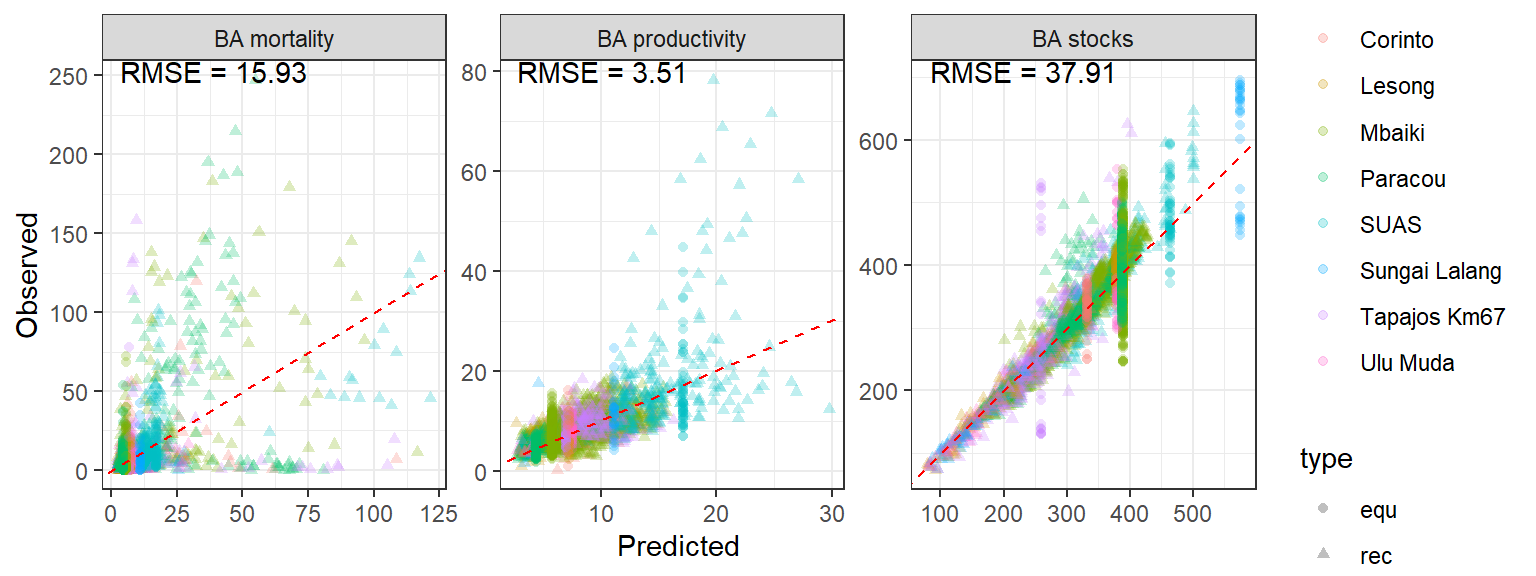
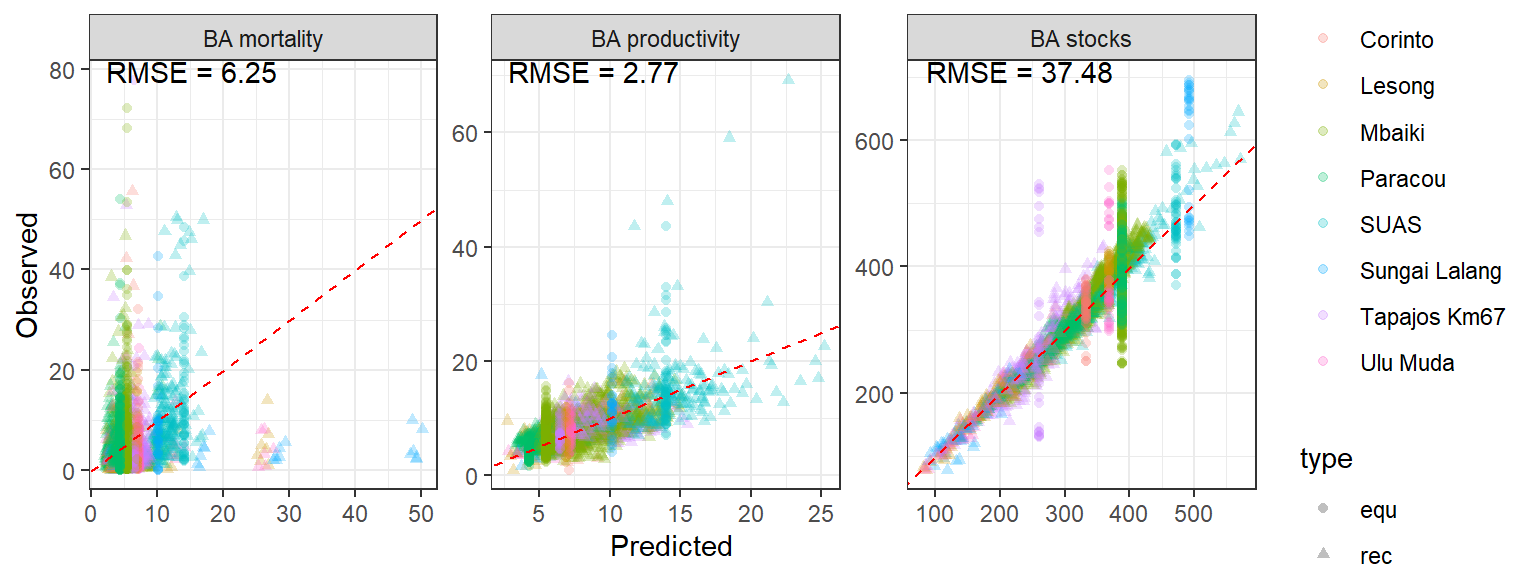
add theta in hyperdistribution of y0 and remove problematic first years (especially for productivity in SUAS)

diff --git a/docs/23_calibrate_flux_model.html b/docs/23_calibrate_flux_model.html
@@ -309,7 +309,11 @@ pre > code.sourceCode > span > a:first-child::before { text-decoration: underlin
 <span id="cb1-17"><a href="#cb1-17" aria-hidden="true" tabindex="-1"></a>  <span class="fu">mutate</span>(<span class="at">Year_of_harvest =</span> <span class="fu">ifelse</span>(Site <span class="sc">==</span> <span class="st">"Mbaiki"</span> <span class="sc">&amp;</span> Treatment <span class="sc">==</span> <span class="st">"Logging"</span>,</span>
 <span id="cb1-18"><a href="#cb1-18" aria-hidden="true" tabindex="-1"></a>    <span class="dv">1985</span>, Year_of_harvest</span>
 <span id="cb1-19"><a href="#cb1-19" aria-hidden="true" tabindex="-1"></a>  )) <span class="sc">|&gt;</span></span>
-<span id="cb1-20"><a href="#cb1-20" aria-hidden="true" tabindex="-1"></a>  <span class="fu">mutate</span>(<span class="at">trec =</span> Year <span class="sc">-</span> Year_of_harvest)</span></code><button title="Copy to Clipboard" class="code-copy-button"><i class="bi"></i></button></pre></div>
+<span id="cb1-20"><a href="#cb1-20" aria-hidden="true" tabindex="-1"></a>  <span class="fu">mutate</span>(<span class="at">Year_of_harvest =</span> <span class="fu">ifelse</span>(Site <span class="sc">==</span> <span class="st">"Paracou"</span> <span class="sc">&amp;</span> Treatment <span class="sc">==</span> <span class="st">"Logging"</span>,</span>
+<span id="cb1-21"><a href="#cb1-21" aria-hidden="true" tabindex="-1"></a>    <span class="dv">1987</span>, Year_of_harvest</span>
+<span id="cb1-22"><a href="#cb1-22" aria-hidden="true" tabindex="-1"></a>  )) <span class="sc">|&gt;</span> </span>
+<span id="cb1-23"><a href="#cb1-23" aria-hidden="true" tabindex="-1"></a>  <span class="fu">mutate</span>(<span class="at">trec =</span> Year <span class="sc">-</span> Year_of_harvest) <span class="sc">|&gt;</span> </span>
+<span id="cb1-24"><a href="#cb1-24" aria-hidden="true" tabindex="-1"></a>  <span class="fu">filter</span>(<span class="sc">!</span> (Site<span class="sc">==</span><span class="st">"Tapajos Km67"</span> <span class="sc">&amp;</span> Year <span class="sc">&gt;</span> <span class="dv">2014</span>))</span></code><button title="Copy to Clipboard" class="code-copy-button"><i class="bi"></i></button></pre></div>
 </details>
 </div>
 <p>For now, we only calibrate the model with sites that meet all the criteria listed <a href="https://bioforest-project.github.io/demography/21_flux_data.html">here</a>, and that have at least 10 censuses.</p>
@@ -352,7 +356,7 @@ pre > code.sourceCode > span > a:first-child::before { text-decoration: underlin
 <span id="cb3-21"><a href="#cb3-21" aria-hidden="true" tabindex="-1"></a>  <span class="fu">flextable</span>()</span></code><button title="Copy to Clipboard" class="code-copy-button"><i class="bi"></i></button></pre></div>
 </details>
 <div class="cell-output-display">
-<div class="tabwid"><style>.cl-954d77e2{}.cl-952835a4{font-family:'Arial';font-size:11pt;font-weight:normal;font-style:normal;text-decoration:none;color:rgba(0, 0, 0, 1.00);background-color:transparent;}.cl-95387b9e{margin:0;text-align:left;border-bottom: 0 solid rgba(0, 0, 0, 1.00);border-top: 0 solid rgba(0, 0, 0, 1.00);border-left: 0 solid rgba(0, 0, 0, 1.00);border-right: 0 solid rgba(0, 0, 0, 1.00);padding-bottom:5pt;padding-top:5pt;padding-left:5pt;padding-right:5pt;line-height: 1;background-color:transparent;}.cl-95387bbc{margin:0;text-align:right;border-bottom: 0 solid rgba(0, 0, 0, 1.00);border-top: 0 solid rgba(0, 0, 0, 1.00);border-left: 0 solid rgba(0, 0, 0, 1.00);border-right: 0 solid rgba(0, 0, 0, 1.00);padding-bottom:5pt;padding-top:5pt;padding-left:5pt;padding-right:5pt;line-height: 1;background-color:transparent;}.cl-9539361a{width:0.75in;background-color:transparent;vertical-align: middle;border-bottom: 1.5pt solid rgba(102, 102, 102, 1.00);border-top: 1.5pt solid rgba(102, 102, 102, 1.00);border-left: 0 solid rgba(0, 0, 0, 1.00);border-right: 0 solid rgba(0, 0, 0, 1.00);margin-bottom:0;margin-top:0;margin-left:0;margin-right:0;}.cl-95393638{width:0.75in;background-color:transparent;vertical-align: middle;border-bottom: 1.5pt solid rgba(102, 102, 102, 1.00);border-top: 1.5pt solid rgba(102, 102, 102, 1.00);border-left: 0 solid rgba(0, 0, 0, 1.00);border-right: 0 solid rgba(0, 0, 0, 1.00);margin-bottom:0;margin-top:0;margin-left:0;margin-right:0;}.cl-9539364c{width:0.75in;background-color:transparent;vertical-align: middle;border-bottom: 0 solid rgba(0, 0, 0, 1.00);border-top: 0 solid rgba(0, 0, 0, 1.00);border-left: 0 solid rgba(0, 0, 0, 1.00);border-right: 0 solid rgba(0, 0, 0, 1.00);margin-bottom:0;margin-top:0;margin-left:0;margin-right:0;}.cl-9539364d{width:0.75in;background-color:transparent;vertical-align: middle;border-bottom: 0 solid rgba(0, 0, 0, 1.00);border-top: 0 solid rgba(0, 0, 0, 1.00);border-left: 0 solid rgba(0, 0, 0, 1.00);border-right: 0 solid rgba(0, 0, 0, 1.00);margin-bottom:0;margin-top:0;margin-left:0;margin-right:0;}.cl-95393656{width:0.75in;background-color:transparent;vertical-align: middle;border-bottom: 1.5pt solid rgba(102, 102, 102, 1.00);border-top: 0 solid rgba(0, 0, 0, 1.00);border-left: 0 solid rgba(0, 0, 0, 1.00);border-right: 0 solid rgba(0, 0, 0, 1.00);margin-bottom:0;margin-top:0;margin-left:0;margin-right:0;}.cl-95393657{width:0.75in;background-color:transparent;vertical-align: middle;border-bottom: 1.5pt solid rgba(102, 102, 102, 1.00);border-top: 0 solid rgba(0, 0, 0, 1.00);border-left: 0 solid rgba(0, 0, 0, 1.00);border-right: 0 solid rgba(0, 0, 0, 1.00);margin-bottom:0;margin-top:0;margin-left:0;margin-right:0;}</style><table data-quarto-disable-processing="true" class="cl-954d77e2"><thead><tr style="overflow-wrap:break-word;"><th class="cl-9539361a"><p class="cl-95387b9e"><span class="cl-952835a4">parameter</span></p></th><th class="cl-95393638"><p class="cl-95387bbc"><span class="cl-952835a4">min</span></p></th><th class="cl-95393638"><p class="cl-95387bbc"><span class="cl-952835a4">max</span></p></th></tr></thead><tbody><tr style="overflow-wrap:break-word;"><td class="cl-9539364c"><p class="cl-95387b9e"><span class="cl-952835a4">theta</span></p></td><td class="cl-9539364d"><p class="cl-95387bbc"><span class="cl-952835a4">50.000</span></p></td><td class="cl-9539364d"><p class="cl-95387bbc"><span class="cl-952835a4">1,000.0</span></p></td></tr><tr style="overflow-wrap:break-word;"><td class="cl-9539364c"><p class="cl-95387b9e"><span class="cl-952835a4">lambda</span></p></td><td class="cl-9539364d"><p class="cl-95387bbc"><span class="cl-952835a4">0.010</span></p></td><td class="cl-9539364d"><p class="cl-95387bbc"><span class="cl-952835a4">5.0</span></p></td></tr><tr style="overflow-wrap:break-word;"><td class="cl-9539364c"><p class="cl-95387b9e"><span class="cl-952835a4">alpha</span></p></td><td class="cl-9539364d"><p class="cl-95387bbc"><span class="cl-952835a4">0.000</span></p></td><td class="cl-9539364d"><p class="cl-95387bbc"><span class="cl-952835a4">200.0</span></p></td></tr><tr style="overflow-wrap:break-word;"><td class="cl-9539364c"><p class="cl-95387b9e"><span class="cl-952835a4">delta</span></p></td><td class="cl-9539364d"><p class="cl-95387bbc"><span class="cl-952835a4">0.000</span></p></td><td class="cl-9539364d"><p class="cl-95387bbc"><span class="cl-952835a4">20.0</span></p></td></tr><tr style="overflow-wrap:break-word;"><td class="cl-9539364c"><p class="cl-95387b9e"><span class="cl-952835a4">tau</span></p></td><td class="cl-9539364d"><p class="cl-95387bbc"><span class="cl-952835a4">2.000</span></p></td><td class="cl-9539364d"><p class="cl-95387bbc"><span class="cl-952835a4">30.0</span></p></td></tr><tr style="overflow-wrap:break-word;"><td class="cl-9539364c"><p class="cl-95387b9e"><span class="cl-952835a4">omega</span></p></td><td class="cl-9539364d"><p class="cl-95387bbc"><span class="cl-952835a4">0.001</span></p></td><td class="cl-9539364d"><p class="cl-95387bbc"><span class="cl-952835a4">0.5</span></p></td></tr><tr style="overflow-wrap:break-word;"><td class="cl-95393656"><p class="cl-95387b9e"><span class="cl-952835a4">y0</span></p></td><td class="cl-95393657"><p class="cl-95387bbc"><span class="cl-952835a4">10.000</span></p></td><td class="cl-95393657"><p class="cl-95387bbc"><span class="cl-952835a4">1,000.0</span></p></td></tr></tbody></table></div>
+<div class="tabwid"><style>.cl-9e85c874{}.cl-9e67a556{font-family:'Arial';font-size:11pt;font-weight:normal;font-style:normal;text-decoration:none;color:rgba(0, 0, 0, 1.00);background-color:transparent;}.cl-9e724e52{margin:0;text-align:left;border-bottom: 0 solid rgba(0, 0, 0, 1.00);border-top: 0 solid rgba(0, 0, 0, 1.00);border-left: 0 solid rgba(0, 0, 0, 1.00);border-right: 0 solid rgba(0, 0, 0, 1.00);padding-bottom:5pt;padding-top:5pt;padding-left:5pt;padding-right:5pt;line-height: 1;background-color:transparent;}.cl-9e724e66{margin:0;text-align:right;border-bottom: 0 solid rgba(0, 0, 0, 1.00);border-top: 0 solid rgba(0, 0, 0, 1.00);border-left: 0 solid rgba(0, 0, 0, 1.00);border-right: 0 solid rgba(0, 0, 0, 1.00);padding-bottom:5pt;padding-top:5pt;padding-left:5pt;padding-right:5pt;line-height: 1;background-color:transparent;}.cl-9e730536{width:0.75in;background-color:transparent;vertical-align: middle;border-bottom: 1.5pt solid rgba(102, 102, 102, 1.00);border-top: 1.5pt solid rgba(102, 102, 102, 1.00);border-left: 0 solid rgba(0, 0, 0, 1.00);border-right: 0 solid rgba(0, 0, 0, 1.00);margin-bottom:0;margin-top:0;margin-left:0;margin-right:0;}.cl-9e73054a{width:0.75in;background-color:transparent;vertical-align: middle;border-bottom: 1.5pt solid rgba(102, 102, 102, 1.00);border-top: 1.5pt solid rgba(102, 102, 102, 1.00);border-left: 0 solid rgba(0, 0, 0, 1.00);border-right: 0 solid rgba(0, 0, 0, 1.00);margin-bottom:0;margin-top:0;margin-left:0;margin-right:0;}.cl-9e730554{width:0.75in;background-color:transparent;vertical-align: middle;border-bottom: 0 solid rgba(0, 0, 0, 1.00);border-top: 0 solid rgba(0, 0, 0, 1.00);border-left: 0 solid rgba(0, 0, 0, 1.00);border-right: 0 solid rgba(0, 0, 0, 1.00);margin-bottom:0;margin-top:0;margin-left:0;margin-right:0;}.cl-9e73055e{width:0.75in;background-color:transparent;vertical-align: middle;border-bottom: 0 solid rgba(0, 0, 0, 1.00);border-top: 0 solid rgba(0, 0, 0, 1.00);border-left: 0 solid rgba(0, 0, 0, 1.00);border-right: 0 solid rgba(0, 0, 0, 1.00);margin-bottom:0;margin-top:0;margin-left:0;margin-right:0;}.cl-9e730568{width:0.75in;background-color:transparent;vertical-align: middle;border-bottom: 1.5pt solid rgba(102, 102, 102, 1.00);border-top: 0 solid rgba(0, 0, 0, 1.00);border-left: 0 solid rgba(0, 0, 0, 1.00);border-right: 0 solid rgba(0, 0, 0, 1.00);margin-bottom:0;margin-top:0;margin-left:0;margin-right:0;}.cl-9e730572{width:0.75in;background-color:transparent;vertical-align: middle;border-bottom: 1.5pt solid rgba(102, 102, 102, 1.00);border-top: 0 solid rgba(0, 0, 0, 1.00);border-left: 0 solid rgba(0, 0, 0, 1.00);border-right: 0 solid rgba(0, 0, 0, 1.00);margin-bottom:0;margin-top:0;margin-left:0;margin-right:0;}</style><table data-quarto-disable-processing="true" class="cl-9e85c874"><thead><tr style="overflow-wrap:break-word;"><th class="cl-9e730536"><p class="cl-9e724e52"><span class="cl-9e67a556">parameter</span></p></th><th class="cl-9e73054a"><p class="cl-9e724e66"><span class="cl-9e67a556">min</span></p></th><th class="cl-9e73054a"><p class="cl-9e724e66"><span class="cl-9e67a556">max</span></p></th></tr></thead><tbody><tr style="overflow-wrap:break-word;"><td class="cl-9e730554"><p class="cl-9e724e52"><span class="cl-9e67a556">theta</span></p></td><td class="cl-9e73055e"><p class="cl-9e724e66"><span class="cl-9e67a556">50.000</span></p></td><td class="cl-9e73055e"><p class="cl-9e724e66"><span class="cl-9e67a556">1,000.0</span></p></td></tr><tr style="overflow-wrap:break-word;"><td class="cl-9e730554"><p class="cl-9e724e52"><span class="cl-9e67a556">lambda</span></p></td><td class="cl-9e73055e"><p class="cl-9e724e66"><span class="cl-9e67a556">0.010</span></p></td><td class="cl-9e73055e"><p class="cl-9e724e66"><span class="cl-9e67a556">5.0</span></p></td></tr><tr style="overflow-wrap:break-word;"><td class="cl-9e730554"><p class="cl-9e724e52"><span class="cl-9e67a556">alpha</span></p></td><td class="cl-9e73055e"><p class="cl-9e724e66"><span class="cl-9e67a556">0.000</span></p></td><td class="cl-9e73055e"><p class="cl-9e724e66"><span class="cl-9e67a556">200.0</span></p></td></tr><tr style="overflow-wrap:break-word;"><td class="cl-9e730554"><p class="cl-9e724e52"><span class="cl-9e67a556">delta</span></p></td><td class="cl-9e73055e"><p class="cl-9e724e66"><span class="cl-9e67a556">0.000</span></p></td><td class="cl-9e73055e"><p class="cl-9e724e66"><span class="cl-9e67a556">20.0</span></p></td></tr><tr style="overflow-wrap:break-word;"><td class="cl-9e730554"><p class="cl-9e724e52"><span class="cl-9e67a556">tau</span></p></td><td class="cl-9e73055e"><p class="cl-9e724e66"><span class="cl-9e67a556">2.000</span></p></td><td class="cl-9e73055e"><p class="cl-9e724e66"><span class="cl-9e67a556">30.0</span></p></td></tr><tr style="overflow-wrap:break-word;"><td class="cl-9e730554"><p class="cl-9e724e52"><span class="cl-9e67a556">omega</span></p></td><td class="cl-9e73055e"><p class="cl-9e724e66"><span class="cl-9e67a556">0.001</span></p></td><td class="cl-9e73055e"><p class="cl-9e724e66"><span class="cl-9e67a556">0.5</span></p></td></tr><tr style="overflow-wrap:break-word;"><td class="cl-9e730568"><p class="cl-9e724e52"><span class="cl-9e67a556">y0</span></p></td><td class="cl-9e730572"><p class="cl-9e724e66"><span class="cl-9e67a556">10.000</span></p></td><td class="cl-9e730572"><p class="cl-9e724e66"><span class="cl-9e67a556">1,000.0</span></p></td></tr></tbody></table></div>
 </div>
 </div>
 <div class="cell">
@@ -360,7 +364,7 @@ pre > code.sourceCode > span > a:first-child::before { text-decoration: underlin
 <summary>Code</summary>
 <div class="sourceCode cell-code" id="cb4"><pre class="sourceCode r code-with-copy"><code class="sourceCode r"><span id="cb4-1"><a href="#cb4-1" aria-hidden="true" tabindex="-1"></a>data_rec <span class="ot">&lt;-</span> data <span class="sc">|&gt;</span></span>
 <span id="cb4-2"><a href="#cb4-2" aria-hidden="true" tabindex="-1"></a>  <span class="fu">mutate</span>(<span class="at">sitenum =</span> <span class="fu">as.numeric</span>(<span class="fu">as.factor</span>(Site))) <span class="sc">|&gt;</span></span>
-<span id="cb4-3"><a href="#cb4-3" aria-hidden="true" tabindex="-1"></a>  <span class="fu">subset</span>(Treatment <span class="sc">==</span> <span class="st">"Logging"</span> <span class="sc">&amp;</span> trec <span class="sc">&gt;=</span> <span class="dv">0</span>) <span class="sc">|&gt;</span></span>
+<span id="cb4-3"><a href="#cb4-3" aria-hidden="true" tabindex="-1"></a>  <span class="fu">subset</span>(Treatment <span class="sc">==</span> <span class="st">"Logging"</span> <span class="sc">&amp;</span> trec <span class="sc">&gt;=</span> <span class="dv">3</span>) <span class="sc">|&gt;</span></span>
 <span id="cb4-4"><a href="#cb4-4" aria-hidden="true" tabindex="-1"></a>  <span class="fu">pivot_wider</span>(<span class="at">names_from =</span> <span class="st">"variable"</span>, <span class="at">values_from =</span> <span class="st">"value"</span>) <span class="sc">|&gt;</span></span>
 <span id="cb4-5"><a href="#cb4-5" aria-hidden="true" tabindex="-1"></a>  <span class="fu">subset</span>(<span class="sc">!</span><span class="fu">is.na</span>(prod) <span class="sc">&amp;</span> <span class="sc">!</span><span class="fu">is.na</span>(mort)) <span class="sc">|&gt;</span></span>
 <span id="cb4-6"><a href="#cb4-6" aria-hidden="true" tabindex="-1"></a>  <span class="fu">mutate</span>(<span class="at">plotnum =</span> <span class="fu">as.numeric</span>(<span class="fu">as.factor</span>(<span class="fu">paste</span>(Site, plot_new))))</span>
@@ -418,18 +422,18 @@ pre > code.sourceCode > span > a:first-child::before { text-decoration: underlin
 </details>
 <div class="cell-output cell-output-stdout">
 <pre><code> variable    mean  median    sd   mad      q5     q95 rhat ess_bulk ess_tail
- lp__     6243.58 6243.78 19.66 19.69 6210.36 6274.80 1.00      989     1690
- mu_y0     284.05  284.07  3.40  3.24  278.37  289.62 1.00      887     1474
- sigma_y0   24.89   24.91  0.66  0.67   23.78   25.95 1.00     2042     2986
- y0_p[1]   325.76  325.54 13.74 13.74  303.78  348.50 1.00     6454     3505
- y0_p[2]   289.51  289.06 14.19 14.73  266.92  313.64 1.00     4872     2793
- y0_p[3]   277.38  277.25 13.63 13.51  255.10  300.15 1.00     6332     2678
- y0_p[4]   276.80  276.41 12.99 12.75  256.12  298.53 1.00     5952     2989
- y0_p[5]   297.53  297.36 14.07 14.18  275.02  321.41 1.00     7451     2641
- y0_p[6]   277.19  277.10 13.08 13.21  256.44  299.16 1.00     4823     2793
- y0_p[7]   184.77  184.62 16.10 16.25  158.95  211.22 1.00     3097     2476
+ lp__     6904.84 6881.39 99.84 78.80 6787.65 7145.34 1.23       12       12
+ sigma_y0   20.98   20.99  0.54  0.51   20.10   21.89 1.00     2863     2965
+ y0_p[1]   358.47  357.95 13.11 12.66  336.99  380.22 1.00     2344     2980
+ y0_p[2]   328.28  327.80 12.84 12.75  307.63  350.10 1.00     1845     1691
+ y0_p[3]   316.20  316.24 12.60 12.15  295.45  337.08 1.01     2430     1828
+ y0_p[4]   333.66  333.48 13.04 12.12  312.31  355.13 1.01     2621     2947
+ y0_p[5]   326.31  326.42 13.82 14.51  303.46  349.00 1.01      675     2111
+ y0_p[6]   331.26  330.61 12.36 11.93  311.50  352.29 1.01     2600     3119
+ y0_p[7]   325.81  325.82 10.06 10.36  309.57  342.10 1.01      708     2621
+ y0_p[8]   330.62  330.46 11.33 11.65  312.61  349.53 1.00     1741     2272
 
- # showing 10 of 8379 rows (change via 'max_rows' argument or 'cmdstanr_max_rows' option)</code></pre>
+ # showing 10 of 7265 rows (change via 'max_rows' argument or 'cmdstanr_max_rows' option)</code></pre>
 </div>
 <details class="code-fold">
 <summary>Code</summary>
@@ -458,16 +462,16 @@ pre > code.sourceCode > span > a:first-child::before { text-decoration: underlin
 <pre><code># A tibble: 32 × 7
    variable Site           mean median    q5   q95  rhat
    &lt;chr&gt;    &lt;chr&gt;         &lt;dbl&gt;  &lt;dbl&gt; &lt;dbl&gt; &lt;dbl&gt; &lt;dbl&gt;
- 1 lambda   Corinto       0.682  0.670 0.423 0.980 1.00 
- 2 lambda   Lesong        0.574  0.572 0.495 0.662 1.00 
- 3 lambda   Mbaiki        0.907  0.904 0.789 1.04  1.00 
- 4 lambda   Paracou       0.394  0.393 0.361 0.429 1.00 
- 5 lambda   SUAS          1.91   1.88  1.44  2.46  1.000
- 6 lambda   Sungai Lalang 0.594  0.590 0.506 0.694 1.00 
- 7 lambda   Tapajos Km67  0.685  0.682 0.601 0.777 1.00 
- 8 lambda   Ulu Muda      0.570  0.567 0.483 0.668 1.00 
- 9 tau      Corinto       6.11   6.07  5.24  7.11  1.00 
-10 tau      Lesong        5.79   5.78  5.32  6.27  1.00 
+ 1 lambda   Corinto       2.42   2.40  2.00  2.92   1.00
+ 2 lambda   Lesong        0.857  0.855 0.801 0.915  1.01
+ 3 lambda   Mbaiki        1.46   1.46  1.39  1.53   1.01
+ 4 lambda   Paracou       1.30   1.30  1.25  1.36   1.01
+ 5 lambda   SUAS          1.51   1.50  1.34  1.68   1.01
+ 6 lambda   Sungai Lalang 0.586  0.586 0.557 0.618  1.01
+ 7 lambda   Tapajos Km67  3.25   3.22  2.83  3.79   1.01
+ 8 lambda   Ulu Muda      0.858  0.855 0.796 0.930  1.01
+ 9 tau      Corinto       5.47   5.43  4.57  6.51   1.01
+10 tau      Lesong        6.38   6.39  5.89  6.88   1.00
 # ℹ 22 more rows</code></pre>
 </div>
 </div>

diff --git a/docs/site_libs/htmltools-fill-0.5.8.1/fill.css b/docs/site_libs/htmltools-fill-0.5.8.1/fill.css
@@ -1,0 +1,21 @@
+@layer htmltools {
+  .html-fill-container {
+    display: flex;
+    flex-direction: column;
+    /* Prevent the container from expanding vertically or horizontally beyond its
+    parent's constraints. */
+    min-height: 0;
+    min-width: 0;
+  }
+  .html-fill-container > .html-fill-item {
+    /* Fill items can grow and shrink freely within
+    available vertical space in fillable container */
+    flex: 1 1 auto;
+    min-height: 0;
+    min-width: 0;
+  }
+  .html-fill-container > :not(.html-fill-item) {
+    /* Prevent shrinking or growing of non-fill items */
+    flex: 0 0 auto;
+  }
+}
